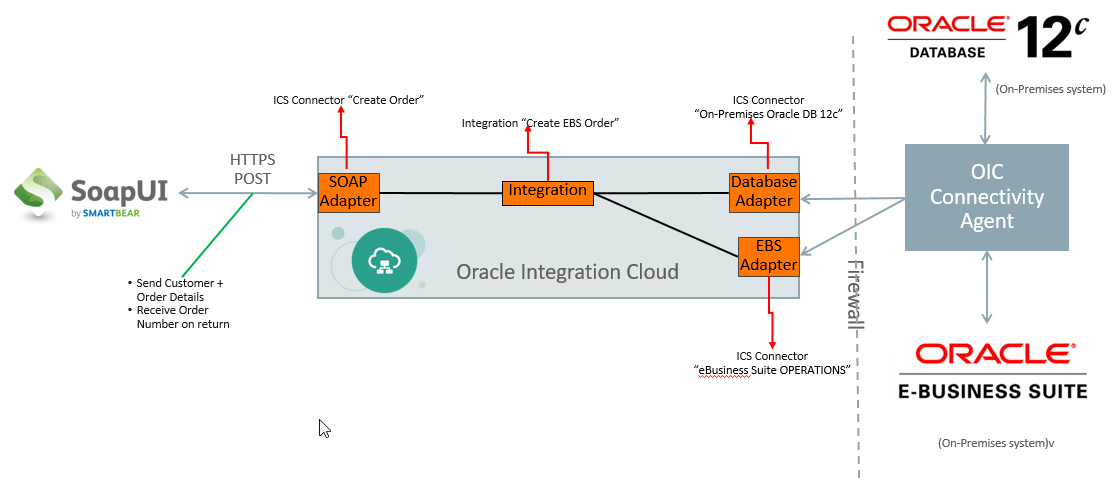
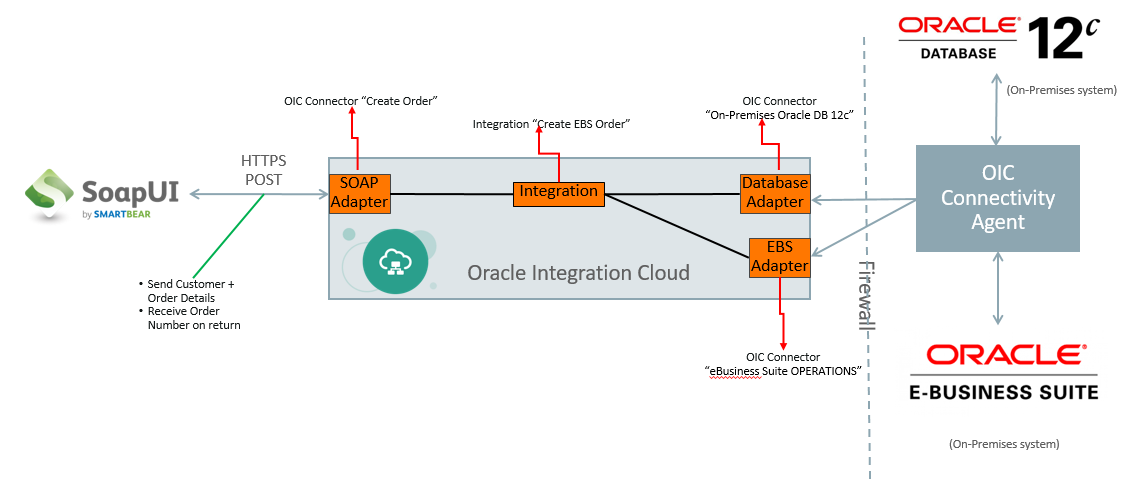
Additional Changes to Images

diff --git a/ics400.md b/ics400.md
@@ -1,5 +1,5 @@
-<img class="float-right" src="https://oracle.github.io/learning-library/workshops/common-content/images/touch-the-cloud/ttc-logo.png" width="200">
-# Lab 400 - Modify an ICS Integration by adding an EBS Adapter and API call
+<img class="float-right" src="images/j2c-logo.png" width="200">
+# Lab 400 - Modify an OIC Integration by adding an EBS Adapter and API call
 
 ---
 
@@ -15,7 +15,7 @@ The ICS integration that we'll be building is shown in the following picture:
 
 Here is a description of what is happening with this integration:
 
-SoapUI will be used to test the exposed Web Service endpoint of the ICS integration called *UserXX Create EBS Order* (where XX will be 00 -> 10).  This integration has 3 connections.  The incoming message is received by the incoming *UserXX SOAP* Soap Connection.  The *UserXX Create EBS Order* orchestration makes 1 query into the database using the *UserXX Oracle DB 12c* connection to get details needed to create an order.  The orchestration finally uses the *UserXX EBS OPERATIONS* EBS Adapter connection for creating the order in EBS.  After the order is created in EBS, the Order Number is returned to the calling web service.
+SoapUI will be used to test the exposed Web Service endpoint of the ICS integration called *UserXX Create EBS Order* (where XX will be the Number assigned by the Instructor).   This integration has 3 connections.  The incoming message is received by the incoming *UserXX SOAP* Soap Connection.  The *UserXX Create EBS Order* orchestration makes 1 query into the database using the *UserXX Oracle DB 12c* connection to get details needed to create an order.  The orchestration finally uses the *UserXX EBS OPERATIONS* EBS Adapter connection for creating the order in EBS.  After the order is created in EBS, the Order Number is returned to the calling web service.
 
 ## Objectives
 

diff --git a/ics300.md b/ics300.md
@@ -1,5 +1,5 @@
-<img class="float-right" src="https://oracle.github.io/learning-library/workshops/common-content/images/touch-the-cloud/ttc-logo.png" width="200">
-# Lab 300 - Create an ICS Integration using a Database Adapter
+<img class="float-right" src="images/j2c-logo.png" width="200">
+# Lab 300 - Create an OIC Integration using a Database Adapter
 
 ---
 
@@ -17,7 +17,7 @@ The ICS integration that we'll be building is shown in the following picture:
 
 Here is a description of what is happening with this integration:
 
-SoapUI will be used to test the exposed Web Service endpoint of the ICS integration called *UserXX Create EBS Order* (where XX will be 00 -> 10).  This integration has 2 connections.  The incoming message is received by the incoming *UserXX SOAP* Soap Connection.  The *UserXX Create EBS Order* orchestration makes 1 query into the Oracle database using the *UserXX Oracle DB 12c* connection to get details needed to create an order in EBS.  After the database calls are made, the results from the query are returned to the calling web service.
+SoapUI will be used to test the exposed Web Service endpoint of the ICS integration called *UserXX Create EBS Order* (where XX will be the Number assigned by the Instructor).  This integration has 2 connections.  The incoming message is received by the incoming *UserXX SOAP* Soap Connection.  The *UserXX Create EBS Order* orchestration makes 1 query into the Oracle database using the *UserXX Oracle DB 12c* connection to get details needed to create an order in EBS.  After the database calls are made, the results from the query are returned to the calling web service.
 
 ## Objectives
 

diff --git a/ics200.md b/ics200.md
@@ -1,4 +1,4 @@
-<img class="float-right" src="https://oracle.github.io/learning-library/workshops/common-content/images/touch-the-cloud/ttc-logo.png" width="200">
+<img class="float-right" src="images/j2c-logo.png" width="200">
 # Lab 200 - Integration Cloud Service
 
 ## Introduction
@@ -6,6 +6,14 @@
 This is the second of several labs that are part of the **ICS Development Workshop**. 
 
 In this lab, you will learn how to create a basic 'hello world' echo service, using a basic orchestration. 
+
+The ICS integration that we'll be building is shown in the following picture:
+
+![](images/200/image001a.png)
+
+Here is a description of what is happening with this integration:
+
+SoapUI will be used to test the exposed REST API Service endpoint of the ICS integration called *UserXX Hello World* (where XX will be the Number assigned by the Instructor).  This integration has 1 connection.  The incoming message is received by the incoming *UserXX REST* REST Connection.  The integration flow will take the Input String and echo it back in the REST API response.
 
 ## Objectives
 

diff --git a/ics000.md b/ics000.md
@@ -1,4 +1,4 @@
-<img class="float-right" src="https://oracle.github.io/learning-library/workshops/common-content/images/touch-the-cloud/ttc-logo.png" width="200">
+<img class="float-right" src="images/j2c-logo.png" width="200">
 ## Introduction
 
 This workshop require that there are a couple of configurations done before starting with the workshop. In this document it will be described what needs to be done, and in what sequence.

diff --git a/ics100.md b/ics100.md
@@ -1,5 +1,5 @@
-<img class="float-right" src="https://oracle.github.io/learning-library/workshops/common-content/images/touch-the-cloud/ttc-logo.png" width="200">
-# Lab 100 - Explore Integration Cloud Service
+<img class="float-right" src="images/j2c-logo.png" width="200">
+# Lab 100 - Explore Oracle Integration Cloud
 
 ---
 
